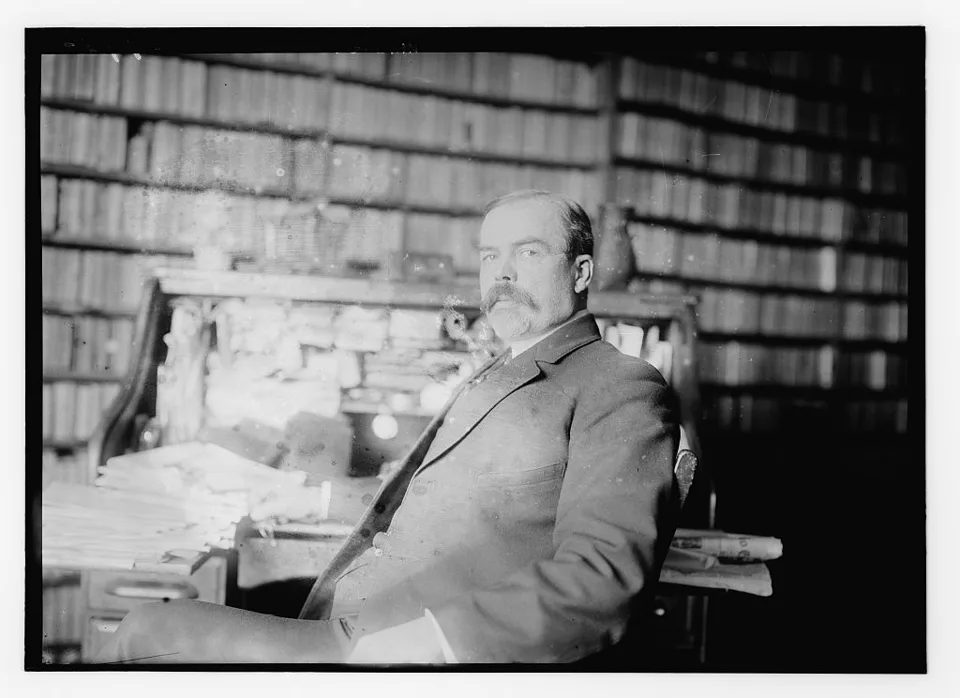
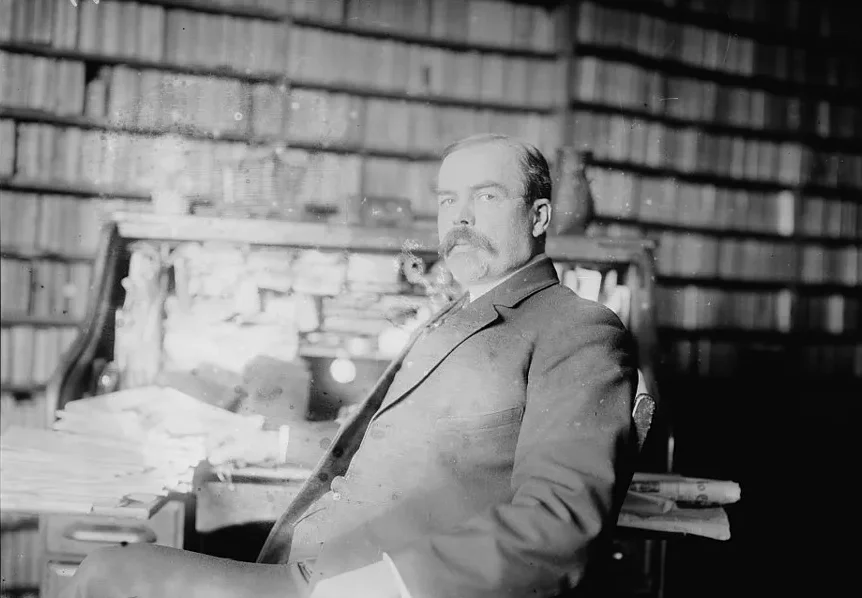
Polish poster templates and crop archive photos
Inset Culture and Geometric text from their rules, keep the Xerox brand
clear of the torn-edge lines, move the Soft Glam sprig off the blurb,
tuck the Pop flower into the corner, back the After Hours blurb, and
give Czech diacritics room in boxed titles. Raise the smallest blurb
sizes and allow three lines where two truncated. Vary the Luxury Fashion
frame, fix three blurb/title copy issues, and crop the mat, negative
edge and captions off the archive photographs.

Add tools/deck-audit.mjs: contact sheets plus overlap, overflow and
truncation checks, with a --matrix sweep over every event and family.

diff --git a/src/posters/render.ts b/src/posters/render.ts
@@ -19,14 +19,14 @@ interface Box { x: number; y: number; w: number; h: number }
 const IMAGE_LAYOUT: Record<IllustratedFamilyId, { title: Box; image: Box }> = {
   acid: { title: { x: 7, y: 20, w: 86, h: 30 }, image: { x: 15, y: 53, w: 70, h: 33 } },
   typewall: { title: { x: 9, y: 23, w: 81, h: 30 }, image: { x: 10, y: 56, w: 80, h: 27 } },
-  geo: { title: { x: 8, y: 23, w: 84, h: 29 }, image: { x: 20, y: 55, w: 60, h: 28 } },
+  geo: { title: { x: 8, y: 29, w: 84, h: 25 }, image: { x: 20, y: 55, w: 60, h: 28 } },
   quiet: { title: { x: 9, y: 64, w: 82, h: 28 }, image: { x: 16, y: 20, w: 68, h: 40 } },
   swiss: { title: { x: 5, y: 23, w: 90, h: 29 }, image: { x: 5, y: 54, w: 90, h: 26 } },
   afterhours: { title: { x: 12, y: 70, w: 76, h: 22 }, image: { x: 12, y: 34, w: 76, h: 33 } },
   editorial: { title: { x: 9, y: 57, w: 82, h: 34 }, image: { x: 26, y: 22, w: 48, h: 29 } },
   collage: { title: { x: 10, y: 64, w: 80, h: 20 }, image: { x: 14, y: 25, w: 72, h: 36 } },
-  culture: { title: { x: 7, y: 58, w: 86, h: 40 }, image: { x: 52, y: 17, w: 40, h: 35 } },
-  geometric: { title: { x: 7, y: 21, w: 86, h: 30 }, image: { x: 18, y: 68, w: 64, h: 34 } },
+  culture: { title: { x: 10, y: 58, w: 80, h: 40 }, image: { x: 52, y: 17, w: 40, h: 35 } },
+  geometric: { title: { x: 10, y: 21, w: 80, h: 30 }, image: { x: 18, y: 68, w: 64, h: 34 } },
 };
 function headline(c: Ctx, text: string, box: Box, o: Partial<FitOptions> & { cls?: string }): string | null {
   return title(text, c.artwork !== 'none' && c.family !== 'plain' ? IMAGE_LAYOUT[c.family].title : box, o);
@@ -72,16 +72,16 @@ function typewall(c: Ctx): string | null {
   const t = headline(c, upper(c.title), { x: 9, y: 23, w: 81, h: 60 }, { cls: 'fx-xerox', max: 23, min: 8, lineH: 1.12 });
   if (!t) return null;
   const offset = n(c.r.range(1, 4));
-  const art = svg(`<rect width="100" height="140" fill="#242424"/><path d="M5 19L95 18 91 30 97 35 93 49 96 63 91 79 95 101 92 120 96 137 4 140 7 121 3 104 7 84 3 70 7 53 3 39Z" fill="${K.paper}"/><path d="M0 12L100 7M0 15L100 10M0 139L100 136" stroke="${K.paper}" stroke-width=".6"/><rect x="8" y="17" width="22" height="6" fill="#C6C1AF" opacity=".85" transform="rotate(-12 8 19)"/><rect width="100" height="140" filter="url(#noise${c.uid})" opacity=".17"/><path d="M${offset} 24V134" stroke="#191919" stroke-dasharray="1 2"/>`, `<filter id="noise${c.uid}"><feTurbulence type="fractalNoise" baseFrequency=".8" numOctaves="3" seed="${hash(`${c.e.id}:typewall`) % 997}"/><feColorMatrix type="saturate" values="0"/></filter>`);
+  const art = svg(`<rect width="100" height="140" fill="#242424"/><path d="M5 19L95 18 91 30 97 35 93 49 96 63 91 79 95 101 92 120 96 137 4 140 7 121 3 104 7 84 3 70 7 53 3 39Z" fill="${K.paper}"/><path d="M0 4L100 -1M0 7L100 2M0 139L100 136" stroke="${K.paper}" stroke-width=".6"/><rect x="8" y="17" width="22" height="6" fill="#C6C1AF" opacity=".85" transform="rotate(-12 8 19)"/><rect width="100" height="140" filter="url(#noise${c.uid})" opacity=".17"/><path d="M${offset} 24V134" stroke="#191919" stroke-dasharray="1 2"/>`, `<filter id="noise${c.uid}"><feTurbulence type="fractalNoise" baseFrequency=".8" numOctaves="3" seed="${hash(`${c.e.id}:typewall`) % 997}"/><feColorMatrix type="saturate" values="0"/></filter>`);
   return wrap(c, 'typewall', `${art}${brand()}${t}`);
 }
 
 function geo(c: Ctx): string | null {
-  const t = headline(c, c.title, { x: 8, y: 32, w: 84, h: 52 }, { cls: 'fx-pop', charW: 0.63, max: 22, min: 7, lineH: 1.02 });
+  const t = headline(c, c.title, { x: 8, y: 34, w: 84, h: 50 }, { cls: 'fx-pop', charW: 0.63, max: 22, min: 7, lineH: 1.02 });
   if (!t) return null;
   const angle = c.r.int(-20, 20);
-  const petals = Array.from({ length: 6 }, (_, i) => `<ellipse cx="78" cy="13" rx="5" ry="10" fill="${K.pink}" transform="rotate(${i * 60 + angle} 78 24)"/>`).join('');
-  const art = svg(`<rect width="100" height="140" fill="url(#candy${c.uid})"/><rect x="4" y="4" width="92" height="132" rx="14" fill="none" stroke="#FFFFFF" stroke-width="1.2"/>${petals}<circle cx="78" cy="24" r="5" fill="#FFF0A5"/><path d="M11 89L14 97 23 98 16 104 17 113 10 108 2 112 4 103 -2 97 7 96Z" fill="${K.steel}" stroke="#FFF" stroke-width="1"/><path d="M9 23Q24 8 49 14" fill="none" stroke="#FFF" stroke-width="2" stroke-linecap="round"/><ellipse cx="86" cy="130" rx="13" ry="9" fill="${K.pink}" stroke="#FFF"/>`, `<linearGradient id="candy${c.uid}" x2=".7" y2="1"><stop stop-color="#D9C6FA"/><stop offset=".5" stop-color="#F8CBE5"/><stop offset="1" stop-color="${K.steel}"/></linearGradient>`);
+  const petals = Array.from({ length: 6 }, (_, i) => `<ellipse cx="83" cy="6" rx="4.5" ry="8.5" fill="${K.pink}" transform="rotate(${i * 60 + angle} 83 15)"/>`).join('');
+  const art = svg(`<rect width="100" height="140" fill="url(#candy${c.uid})"/><rect x="4" y="4" width="92" height="132" rx="14" fill="none" stroke="#FFFFFF" stroke-width="1.2"/>${petals}<circle cx="83" cy="15" r="4.5" fill="#FFF0A5"/><path d="M11 89L14 97 23 98 16 104 17 113 10 108 2 112 4 103 -2 97 7 96Z" fill="${K.steel}" stroke="#FFF" stroke-width="1"/><path d="M9 23Q24 8 49 14" fill="none" stroke="#FFF" stroke-width="2" stroke-linecap="round"/><ellipse cx="86" cy="130" rx="13" ry="9" fill="${K.pink}" stroke="#FFF"/>`, `<linearGradient id="candy${c.uid}" x2=".7" y2="1"><stop stop-color="#D9C6FA"/><stop offset=".5" stop-color="#F8CBE5"/><stop offset="1" stop-color="${K.steel}"/></linearGradient>`);
   return wrap(c, 'geo', `${art}${brand()}${t}`);
 }
 
@@ -89,7 +89,7 @@ function quiet(c: Ctx): string | null {
   const t = headline(c, c.title, { x: 9, y: 49, w: 82, h: 46 }, { cls: 'fx-soft', charW: 0.48, max: 19, min: 6, lineH: 1.04 });
   if (!t) return null;
   const shift = n(c.r.range(-5, 5));
-  const art = svg(`<rect width="100" height="140" fill="${K.paper}"/><g filter="url(#haze${c.uid})"><path d="M-15 63Q45 ${shift} 120 38V140H-15Z" fill="${K.sage}"/><ellipse cx="78" cy="30" rx="34" ry="25" fill="${K.steel}" opacity=".85"/><ellipse cx="18" cy="125" rx="65" ry="30" fill="#DED0C2"/></g><path d="M69 44Q65 26 76 16M70 35Q54 33 58 22Q70 22 70 35M71 29Q85 29 84 18Q73 19 71 29" fill="none" stroke="${K.plum}" stroke-opacity=".5" stroke-width=".6"/>`, `<filter id="haze${c.uid}" x="-30%" y="-30%" width="160%" height="160%"><feGaussianBlur stdDeviation="6"/></filter>`);
+  const art = svg(`<rect width="100" height="140" fill="${K.paper}"/><g filter="url(#haze${c.uid})"><path d="M-15 63Q45 ${shift} 120 38V140H-15Z" fill="${K.sage}"/><ellipse cx="78" cy="30" rx="34" ry="25" fill="${K.steel}" opacity=".85"/><ellipse cx="18" cy="125" rx="65" ry="30" fill="#DED0C2"/></g><path transform="translate(10 -2)" d="M69 44Q65 26 76 16M70 35Q54 33 58 22Q70 22 70 35M71 29Q85 29 84 18Q73 19 71 29" fill="none" stroke="${K.plum}" stroke-opacity=".5" stroke-width=".6"/>`, `<filter id="haze${c.uid}" x="-30%" y="-30%" width="160%" height="160%"><feGaussianBlur stdDeviation="6"/></filter>`);
   return wrap(c, 'quiet', `${art}${brand()}${t}`);
 }
 
@@ -114,7 +114,13 @@ function editorial(c: Ctx): string | null {
   const t = headline(c, c.title, { x: 9, y: 57, w: 82, h: 34 }, { cls: 'fx-fashion', charW: 0.52, max: 17, min: 6, lineH: 1.02 });
   if (!t) return null;
   const shift = n(c.r.range(0, 8));
-  const art = svg(`<rect width="100" height="140" fill="${K.paper}"/><path d="M9 16H91M9 136H91" stroke="${K.ink}" stroke-width=".4"/><rect x="26" y="22" width="48" height="29" fill="#D5CDCF" stroke="${K.ink}" stroke-width=".3"/><path d="M${shift} 53L53 22H65L40 53Z" fill="${K.plum}" clip-path="url(#frame${c.uid})"/><path d="M48 53L73 22H90L68 53Z" fill="${K.ink}" clip-path="url(#frame${c.uid})"/>`, `<clipPath id="frame${c.uid}"><rect x="26" y="22" width="48" height="29"/></clipPath>`);
+  // Three framed abstractions, so a run of editorial cards doesn't repeat one picture.
+  const motif = [
+    `<path d="M${shift} 53L53 22H65L40 53Z" fill="${K.plum}" clip-path="url(#frame${c.uid})"/><path d="M48 53L73 22H90L68 53Z" fill="${K.ink}" clip-path="url(#frame${c.uid})"/>`,
+    `<circle cx="${n(38 + Number(shift) / 2)}" cy="40" r="15" fill="${K.plum}" clip-path="url(#frame${c.uid})"/><rect x="55" y="22" width="19" height="29" fill="${K.ink}"/>`,
+    `<rect x="26" y="22" width="48" height="9" fill="${K.plum}"/><rect x="26" y="39" width="${n(30 + Number(shift) * 2)}" height="12" fill="${K.ink}"/>`,
+  ][c.r.int(0, 2)];
+  const art = svg(`<rect width="100" height="140" fill="${K.paper}"/><path d="M9 16H91M9 136H91" stroke="${K.ink}" stroke-width=".4"/><rect x="26" y="22" width="48" height="29" fill="#D5CDCF" stroke="${K.ink}" stroke-width=".3"/>${motif}`, `<clipPath id="frame${c.uid}"><rect x="26" y="22" width="48" height="29"/></clipPath>`);
   return wrap(c, 'editorial', `${art}${brand()}${t}`);
 }
 
@@ -127,7 +133,7 @@ function collage(c: Ctx): string | null {
 }
 
 function culture(c: Ctx): string | null {
-  const t = headline(c, c.title, { x: 7, y: 58, w: 86, h: 40 }, { cls: 'fx-culture', charW: 0.52, max: 20, min: 6, lineH: 1.02 });
+  const t = headline(c, c.title, { x: 10, y: 58, w: 80, h: 40 }, { cls: 'fx-culture', charW: 0.52, max: 20, min: 6, lineH: 1.02 });
   if (!t) return null;
   const accent = c.r.pick(['#A7352B', '#284C7B']);
   const cx = n(c.r.range(73, 84));
@@ -136,7 +142,7 @@ function culture(c: Ctx): string | null {
 }
 
 function geometric(c: Ctx): string | null {
-  const t = headline(c, upper(c.title), { x: 7, y: 21, w: 86, h: 38 }, { cls: 'fx-geometric', charW: 0.51, max: 22, min: 7, lineH: 1.01 });
+  const t = headline(c, upper(c.title), { x: 10, y: 21, w: 80, h: 38 }, { cls: 'fx-geometric', charW: 0.51, max: 22, min: 7, lineH: 1.01 });
   if (!t) return null;
   const offset = c.r.pick([0, 6, 12]);
   const art = svg(`<rect width="100" height="140" fill="#F0E9D7"/><path d="M0 66H100M7 0V140M93 0V140" stroke="#244D4D" stroke-width=".35"/><g transform="translate(${offset} 0)"><path d="M-14 140V87A27 27 0 0 1 40 87V140H25V87A12 12 0 0 0 1 87V140Z" fill="#B9502E"/><path d="M29 140V87A27 27 0 0 1 83 87V140H68V87A12 12 0 0 0 44 87V140Z" fill="#244D4D"/><rect x="78" y="66" width="15" height="74" fill="#B9502E"/></g><rect x="7" y="13" width="24" height="2" fill="#B9502E"/>`);

diff --git a/src/styles.css b/src/styles.css
@@ -1945,7 +1945,7 @@ body[data-view='ops'] #main {
   letter-spacing: -0.02em;
 }
 
-.fam-culture .p-brand { top: 6cqw; font-family: var(--ui); font-size: 3.4cqw; font-weight: 800; letter-spacing: -0.025em; }
+.fam-culture .p-brand { top: 6cqw; left: 10cqw; font-family: var(--ui); font-size: 3.4cqw; font-weight: 800; letter-spacing: -0.025em; }
 
 .fx-geometric {
   font-family: var(--ui);
@@ -1955,7 +1955,7 @@ body[data-view='ops'] #main {
   color: #244D4D;
 }
 
-.fam-geometric .p-brand { top: 5cqw; font-size: 2.8cqw; color: #244D4D; letter-spacing: 0.12em; }
+.fam-geometric .p-brand { top: 5cqw; left: 10cqw; font-size: 2.8cqw; color: #244D4D; letter-spacing: 0.12em; }
 
 /* Source copy is a separate art-directed element, never invented decoration. */
 .p-blurb {
@@ -1975,14 +1975,14 @@ body[data-view='ops'] #main {
   max-height: 3lh;
 }
 
-.bl-acid { left: 9cqw; top: 88cqw; width: 74cqw; padding: 1cqw 2cqw; border-left: 0.6cqw solid #F260BD; background: #21142F; color: #F5F1E7; font-family: monospace; font-size: 2.9cqw; }
-.bl-typewall { left: 14cqw; top: 87cqw; width: 72cqw; padding: 1.5cqw 2cqw; background: #D9D5C9; color: #191919; font-family: monospace; font-size: 2.9cqw; transform: rotate(1deg); box-shadow: -1cqw 1cqw #191919; }
+.bl-acid { left: 9cqw; top: 88cqw; width: 74cqw; padding: 1cqw 2cqw; border-left: 0.6cqw solid #F260BD; background: #21142F; color: #F5F1E7; font-family: monospace; font-size: 3.1cqw; }
+.bl-typewall { left: 14cqw; top: 87cqw; width: 72cqw; padding: 1.5cqw 2cqw; background: #D9D5C9; color: #191919; font-family: monospace; font-size: 3.1cqw; transform: rotate(1deg); box-shadow: -1cqw 1cqw #191919; }
 .bl-typewall::before, .bl-collage::before { content: ''; position: absolute; top: 0; left: 30%; width: 18cqw; height: 1.2cqw; background: #F5F1E7; opacity: 0.8; }
 .bl-geo { left: 18cqw; top: 87cqw; width: 64cqw; padding: 1cqw 2cqw; border-radius: 3cqw; background: #FFF3FB; color: #592E72; font-family: var(--pop); font-size: 3.2cqw; line-height: 1.12; box-shadow: 0.7cqw 0.7cqw #CB8BC6; }
-.bl-quiet { left: 9cqw; top: 21cqw; width: 53cqw; color: #45394B; font-family: var(--serif); font-size: 4.1cqw; line-height: 1.12; }
+.bl-quiet { left: 9cqw; top: 21cqw; width: 50cqw; color: #45394B; font-family: var(--serif); font-size: 4.1cqw; line-height: 1.12; }
 .bl-swiss { left: 5cqw; top: 84cqw; width: 57cqw; color: #191919; font-size: 3cqw; line-height: 1.15; }
-.bl-afterhours { left: 13cqw; top: 82cqw; width: 74cqw; color: #283B58; font-family: monospace; font-size: 2.9cqw; }
-.bl-editorial { left: 18cqw; top: 95cqw; width: 64cqw; color: #604C64; font-size: 3cqw; text-align: center; -webkit-line-clamp: 2; max-height: 2lh; }
+.bl-afterhours { left: 13cqw; top: 82cqw; width: 74cqw; color: #283B58; font-family: monospace; font-size: 3.1cqw; }
+.bl-editorial { left: 18cqw; top: 95cqw; width: 64cqw; color: #604C64; font-size: 3cqw; text-align: center; -webkit-line-clamp: 3; max-height: 3lh; }
 .bl-collage { left: 15cqw; top: 86cqw; width: 65cqw; padding: 1.5cqw 2cqw; background: #F5F1E7; color: #191919; font-size: 3cqw; transform: rotate(-1deg); box-shadow: 1cqw 1cqw #191919; }
 .bl-culture { left: 10cqw; top: 21cqw; width: 36cqw; color: #191919; font-family: var(--serif); font-size: 3.9cqw; line-height: 1.12; -webkit-line-clamp: 5; max-height: 5lh; }
 .bl-geometric { left: 35cqw; top: 78cqw; width: 50cqw; padding: 2cqw; color: #244D4D; background: #F0E9D7; font-size: 3.1cqw; border-left: 1.3cqw solid #B9502E; }
@@ -2001,12 +2001,12 @@ body[data-view='ops'] #main {
 .fam-quiet.has-artwork .bl-quiet { top: 95cqw; width: 82cqw; font-size: 3.1cqw; -webkit-line-clamp: 2; max-height: 2lh; }
 .fam-swiss .p-subject { background: #F7F7F2; border-left: 2cqw solid #D93228; filter: grayscale(1) contrast(1.2); }
 .fam-afterhours .p-subject { background: #D5DAEF; border: .6cqw inset #FFF; border-radius: 1cqw; }
-.fam-afterhours.has-artwork .bl-afterhours { top: 94cqw; -webkit-line-clamp: 2; max-height: 2lh; font-size: 2.5cqw; }
+.fam-afterhours.has-artwork .bl-afterhours { left: 11cqw; top: 93.5cqw; width: 78cqw; -webkit-line-clamp: 2; max-height: 2lh; font-family: var(--ui); font-size: 3cqw; line-height: 1.2; }
 .fam-editorial .p-subject { background: #D5CDCF; border: .3cqw solid #191919; filter: saturate(.45); }
 .fam-collage .p-subject { background: #F5F1E7; padding: 1cqw; transform: rotate(-3deg); clip-path: polygon(2% 0,98% 2%,100% 96%,0 100%); }
 .fam-culture .p-subject { background: #F5F1E7; filter: sepia(.4) contrast(1.25); }
 .fam-geometric .p-subject { background: #F0E9D7; border-radius: 50% 50% 0 0; border: .7cqw solid #244D4D; }
-.fam-geometric.has-artwork .bl-geometric { left: 7cqw; top: 55cqw; width: 86cqw; padding: 0 2cqw; -webkit-line-clamp: 2; max-height: 2lh; }
+.fam-geometric.has-artwork .bl-geometric { left: 10cqw; top: 54cqw; width: 80cqw; padding: 1cqw 2cqw; -webkit-line-clamp: 2; max-height: 2lh; }
 
 /* A stable reading order, not a universal panel: date/time, place/price, category. */
 .p-band {

diff --git a/src/data/fixtures.ts b/src/data/fixtures.ts
@@ -108,7 +108,7 @@ const T: Template[] = [
   { id: 'new-wave', title: 'Midnight Movie: Czech New Wave Double Bill', display: 'New Wave at Midnight', cat: 'film', genre: 'Double bill', venue: 'svetlo', days: [5, 6], start: '23:00', end: '02:30', price: 200, local: true, desc: 'Two features from the 1960s with a short break. Czech audio, English subtitles.', lang: ['CZ, EN subtitles', true] },
   { id: 'edge-docs', title: 'Documentaries from the Edge of the City', cat: 'film', genre: 'Documentary', venue: 'okno', days: [2, 0], start: '19:00', price: 0, local: true },
   { id: 'shorts', title: 'Short Film Night', cat: 'film', genre: 'Shorts', venue: 'loft', days: [4, 1], start: '20:00', price: 120 },
-  { id: 'animation-long', title: 'An Evening of Experimental Czech Animation from the 1960s and 1970s, with Live Improvised Piano Accompaniment and a Q&A', cat: 'film', genre: 'Animation', venue: 'svetlo', days: [2, 4, 0], start: '19:00', price: 160, oneOff: true, local: true },
+  { id: 'animation-long', title: 'An Evening of Experimental Czech Animation from the 1960s and 1970s, with Live Improvised Piano Accompaniment and a Q&A', display: 'Czech Animation, Live Piano', cat: 'film', genre: 'Animation', venue: 'svetlo', days: [2, 4, 0], start: '19:00', price: 160, oneOff: true, local: true },
   { id: 'student-docs', title: 'Prague Short Documentary Showcase: New Work from Students of the Film School, Followed by Director Conversations', display: 'Student Docs Showcase', cat: 'film', genre: 'Documentary', venue: 'sal', days: [3, 6], start: '18:30', price: 0, local: true },
 
   // Talks and spoken word
@@ -174,7 +174,7 @@ const BLURBS: Record<string, string> = {
   'three-bands': 'Three local alternative bands, thirty-five minutes each, in a small brick basement.',
   leftfield: 'Broken beats, odd tempos and live modular sets in the pavilion above Letná park.',
   'harp-tape': 'Solo harp run through reel-to-reel tape loops, performed in the library reading room.',
-  'brass-boat': 'A ten-piece brass band plays the deck of a moored river boat. Standing room, bar open.',
+  'brass-boat': 'A ten-piece brass band plays on the deck of a moored river boat. Standing room, bar open.',
   'folk-revival': 'Open session of Czech and Moravian folk tunes. Bring an instrument or just sit and listen.',
   'vinyl-club': 'Original pressings of Czech jazz from 1965 to 1975, played and introduced by a collector.',
   choir: 'Learn three songs by ear in an hour, then sing them together. No auditions, no experience.',
@@ -271,7 +271,7 @@ const BLURBS: Record<string, string> = {
   'Stand-up in Czech': 'Four Czech comedians, one host, in Czech.',
   'Ambient Lounge': 'Ambient and downtempo sets for sitting and listening. Beanbags provided.',
   'Late Jazz Session': 'A late jazz session with a rotating line-up of Prague players.',
-  'Synth Meetup': 'Bring a synth or come and play with others’. Show-and-tell and an open jam.',
+  'Synth Meetup': 'Bring a synth or come and play with others. Show-and-tell and an open jam.',
   'Electronic Live Acts': 'Three live electronic acts with hardware only, no laptops.',
   'Physical Theatre: Hold On': 'A physical theatre piece for three performers, wordless and about an hour long.',
   'Improv Jam': 'Open improv jam: anyone can jump on stage for a scene. Hosted by the house team.',

diff --git a/src/posters/originals.ts b/src/posters/originals.ts
@@ -42,7 +42,7 @@ function star(): string {
 function title(text: string, box: Box, o: Partial<FitOptions> & { cls?: string; lineCls?: (i: number) => string; style?: string }): string | null {
   const fit = fitTitle(text, { w: box.w, h: box.h, charW: o.charW ?? .47, lineH: o.lineH ?? .98, max: o.max ?? 30, min: o.min ?? 8, maxLines: o.maxLines ?? 4 });
   if (!fit.ok) return null;
-  return `<div class="p-title ${o.cls ?? ''}" data-w="${box.w}" data-h="${box.h}" data-min="${o.min ?? 8}" style="left:${box.x}cqw;top:${box.y}cqw;width:${box.w}cqw;font-size:${fit.size}cqw;${o.style ?? ''}" aria-hidden="true">${fit.lines.map((l, i) => `<span class="ln ${o.lineCls?.(i) ?? ''}">${esc(l)}</span>`).join('')}</div>`;
+  return `<div class="p-title ${o.cls ?? ''}" data-w="${box.w}" data-h="${box.h}" data-min="${o.min ?? 8}" style="left:${box.x}cqw;top:${box.y}cqw;width:${box.w}cqw;font-size:${fit.size}cqw;${o.style ?? ''}" aria-hidden="true">${fit.lines.map((l, i) => `<span class="ln ${o.lineCls?.(i) ?? ''}${/[\u0300-\u036f]/.test(l.normalize('NFD')) ? ' dia' : ''}">${esc(l)}</span>`).join('')}</div>`;
 }
 function svg(body: string, defs = '') {
   return `<svg class="decor" viewBox="0 0 100 140" preserveAspectRatio="none" aria-hidden="true"><defs>${defs}</defs>${body}</svg>`;
@@ -104,7 +104,7 @@ function swiss(c: Ctx): string | null {
   const art = svg(`<rect x="${f1(100 - cw)}" y="0" width="${f1(cw)}" height="18" fill="${accent}"/>${grid}${bar}${nums}`);
   const t = title(upper(c.title), { x: 2, y: 30, w: 95, h: 52 }, { cls: 'fx-cond', charW: .48, lineH: .98, max: 22, min: 8, maxLines: 5 });
   if (!t) return null;
-  return wrap(c, '--bg:#F7F4EC', `${art}<div class="p-brand swiss">PT—${f.dd}</div><div class="p-brand swiss-date" style="right:0;width:${f1(cw)}cqw;color:${K.cream}">${f.ddmm}</div><div class="p-label" style="left:2cqw;top:21cqw;color:${accent}">${esc(upper(f.kind))}</div>${t}${blurb(c, `left:2cqw;top:101cqw;width:64cqw;color:${K.ink}`, 'bl-grid', 2)}${band(c, { fg: K.ink, accent, font: 'cond', x: 2 })}`);
+  return wrap(c, '--bg:#F7F4EC', `${art}<div class="p-brand swiss">PT—${f.dd}</div><div class="p-brand swiss-date" style="right:0;width:${f1(cw)}cqw;color:${K.cream}">${f.ddmm}</div><div class="p-label" style="left:2cqw;top:21cqw;color:${accent}">${esc(upper(f.kind))}</div>${t}${blurb(c, `left:2cqw;top:101cqw;width:64cqw;color:${K.ink}`, 'bl-grid', 3)}${band(c, { fg: K.ink, accent, font: 'cond', x: 2 })}`);
 }
 function geo(c: Ctx): string | null {
   const { r, f } = c;

diff --git a/src/posters/assets.ts b/src/posters/assets.ts
@@ -34,10 +34,10 @@ const archive = (id: string, label: string, item: string, aspectRatio: number, f
 
 /** IDs are persisted in saved appearances: keep them stable as the library grows. */
 export const ARTWORK_ASSETS: readonly ArtworkAsset[] = [
-  archive('archive-horses', 'Prestashka of W. Winans — horses, c. 1910–1915', '2014689217', 1.37),
-  archive('archive-truck', 'U.S. Mail truck, c. 1910–1915', '2014694708', 1.36),
-  archive('archive-phonograph', 'First phonograph — an undated archival photograph', '2014702526', 1.39),
-  archive('archive-bain', 'G. G. Bain in his office, c. 1910–1915', '2014695048', 1.38, true),
+  archive('archive-horses', 'Prestashka of W. Winans — horses, c. 1910–1915', '2014689217', 1.42),
+  archive('archive-truck', 'U.S. Mail truck, c. 1910–1915', '2014694708', 1.55),
+  archive('archive-phonograph', 'First phonograph — an undated archival photograph', '2014702526', 1.49),
+  archive('archive-bain', 'G. G. Bain in his office, c. 1910–1915', '2014695048', 1.44, true),
   original('rotary-phone', 'object', 'A red rotary telephone', 1.4),
   original('lounge-chair', 'object', 'An implausibly elegant green chair'),
   original('sardine-tin', 'object', 'An open tin with one enormous sardine', 1.4),

diff --git a/src/posters/originals.css b/src/posters/originals.css
@@ -5,6 +5,7 @@
 .original .fx-serif { font-family: var(--serif); font-weight: 400; line-height: 1.04; letter-spacing: .01em; }
 .original .fx-boxes { line-height: .94; }
 .original .fx-boxes .ln { padding: .03em .14em; margin-bottom: .06em; }
+.original .fx-boxes .ln.dia { padding-top: .2em; }
 .original .fx-wall .ln { width: 100%; }
 .original .box-cream { background: #F4EEDD; color: #191919; }
 .original .box-ink { background: #191919; color: #F4EEDD; }
@@ -34,7 +35,7 @@
 .original .bl-big { font-size: 4.1cqw; }
 .original .bl-bold { font-weight: 600; }
 .original .bl-grid { font-size: 3cqw; }
-.original .bl-glow { font-size: 3cqw; }
+.original .bl-glow { font-size: 3cqw; padding: .6cqw 1.6cqw; margin-left: -1.6cqw; background: rgb(20 21 46 / .88); }
 /* Leave the source-copy zone intact; the old 104cqw band overlapped it. */
 .original .p-band { top: 114cqw; bottom: 2cqw; display: flex; flex-direction: column; gap: 1cqw; color: var(--b-fg); overflow: hidden; }
 .original .p-band.boxed { background: var(--b-bg); padding: 2.2cqw 3.4cqw; }

diff --git a/test/posters.test.ts b/test/posters.test.ts
@@ -251,7 +251,7 @@ describe('poster engine', () => {
   });
 
   it('balances the actual narrow-title pool while relaxing recency only when necessary', () => {
-    const input = deck(6).map((e) => ({ ...e, displayTitle: 'W'.repeat(21) }));
+    const input = deck(6).map((e) => ({ ...e, displayTitle: 'W'.repeat(19) }));
     const pool = eligibleFamilies(input[0]);
     expect(pool).toContain('culture');
     expect(pool).toContain('quiet');

diff --git a/README.md b/README.md
@@ -102,6 +102,7 @@ Event details label subjects as **illustrative artwork, not event photography**,
 - `?now=2026-10-23T23:30` pins the Prague clock (it still ticks). The Tools screen sets this for you.
 - `?stale=1` shows the warning for data that failed to refresh (also a Tools checkbox).
 - `node tools/screenshot.mjs --url '…' --steps '<js>;;SHOT:shots/a.png;;<js>'` drives headless Chrome at phone size.
+- `node tools/deck-audit.mjs [--span 1|3|7] [--fam acid,geo]` renders every card in a deck at real size into contact sheets under `shots/audit` and flags overlaps, overflow and truncated blurbs. `--matrix` instead renders every event in every poster family, with and without artwork, and prints a summary (no images).
 
 ## Not built yet (per the brief's "explore after launch")
 

diff --git a/public/artwork/README.md b/public/artwork/README.md
@@ -30,3 +30,5 @@ Each is a self-contained SVG with transparent surroundings and a descriptive tit
 ## Catalogue
 
 `src/posters/assets.ts` is the runtime catalogue. It records kind, photographic content, human-face prominence, transparency, aspect ratio, density, attribution, and source/rights information. Keep IDs stable: saved appearances refer to them. Add assets only with a recorded source or original-art attribution.
+
+The four `archive-*.webp` photographs are cropped inside the Library of Congress scan: the paper mat, the black negative edge and the handwritten caption were removed so only the picture shows. The crop does not alter the picture itself.
